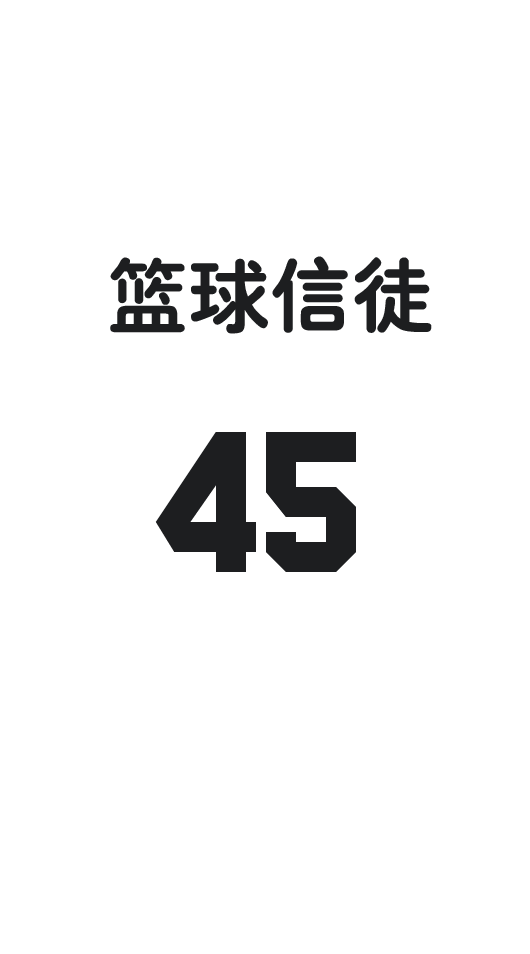
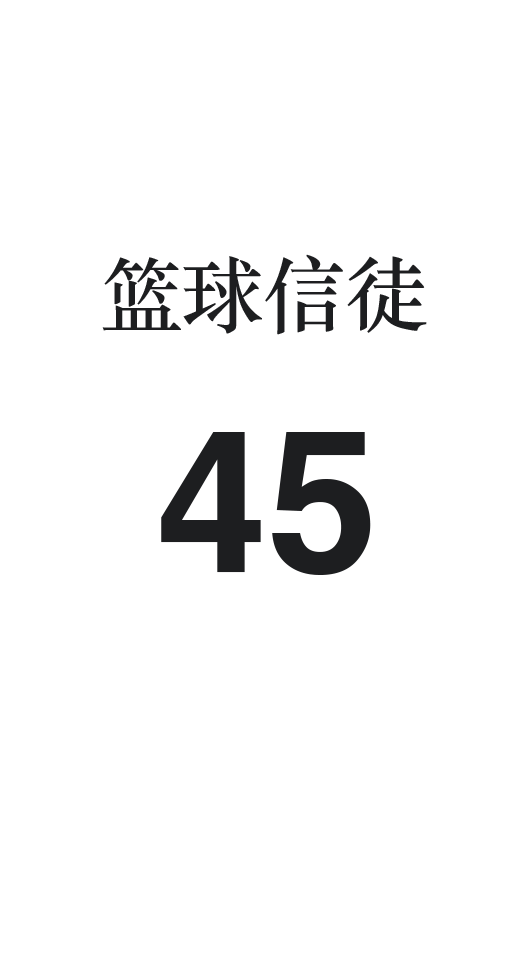
定制衣服

Changed region(s): [[0.2113, 0.2432, 0.8151, 0.3648], [0.4528, 0.456, 0.6943, 0.608], [0.3019, 0.456, 0.4226, 0.608]]

diff --git a/skin/frontend/default/spalding/js/customclothes.js b/skin/frontend/default/spalding/js/customclothes.js
@@ -385,14 +385,16 @@ function showCarlist(){
     jQuery(".madeBoxCont4 .list-item li.style span").text(fontStyle);
     getColor(mageAttr["color"],".madeBoxCont4 .list-item li.color span");
     jQuery(".madeBoxCont4 .list-item li.fontColor span").text(mageAttr["fontColor"]);
-    jQuery(".madeBoxCont4 .list-item li.team span").text(mageAttr["team"]);
-    var html = "";
+    jQuery(".madeBoxCont4 .list-item li.team span").text(mageAttr["team"]?mageAttr["team"]:"");
+    var html = "", player , num ;
     jQuery(".madeBoxCont4 .moreBox table tbody").html("");
     jQuery.each(detailData,function(key,node){
+        player=node.player?node.player:"";
+        num=node.num?node.num:"";
         if(mageAttr["double"] == 0){
-            html += "<tr><td>"+node.player+"</td><td>"+node.num+"</td><td>"+node.size+"</td></tr>";
+            html += "<tr><td>"+player+"</td><td>"+num+"</td><td>"+node.size+"</td></tr>";
         }else{
-            html += "<tr><td>"+node.player+"</td><td>"+node.num+"</td><td>"+node.size+"</td><td>"+node.size2+"</td></tr>";
+            html += "<tr><td>"+player+"</td><td>"+num+"</td><td>"+node.size+"</td><td>"+node.size2+"</td></tr>";
         }
     })
     jQuery(".madeBoxCont4 .moreBox table tbody").append(html);

diff --git a/skin/frontend/default/spalding/css/customclothes.css b/skin/frontend/default/spalding/css/customclothes.css
@@ -127,6 +127,7 @@ button{border:0;outline: none}
 .cusMadeBox .styleBox .madeFont .ullist li:after{width:150px;}
 .cusMadeBox .styleBox .madeFont .ullist li.style1{background: url(../images/shirtmade/img_font1.png) no-repeat}
 .cusMadeBox .styleBox .madeFont .ullist li.style2{background: url(../images/shirtmade/img_font2.png) no-repeat}
+.cusMadeBox .styleBox .madeFont .ullist li.style3{background: url(../images/shirtmade/img_font3.png) no-repeat}
 .cusMadeBox .styleBox .madeStyle .ullist li{width:146px;height:38px;}
 .cusMadeBox .styleBox .madeStyle .ullist li:after{width:150px;}
 .cusMadeBox .styleBox .madeStyle .ullist li.style1{background: url(../images/shirtmade/style1.png) no-repeat}

diff --git a/skin/frontend/default/spalding/js/custommade.js b/skin/frontend/default/spalding/js/custommade.js
@@ -216,7 +216,6 @@ function IsNum(obj) {
 * */
 function madeData(){
     var color=jQuery(".madeColor li.active").attr("data");
-    alert(color);
     var size=jQuery(".madeSize li.active").text();
     var font=jQuery(".madeFont li.active").attr("data");
     var style=jQuery(".madeStyle li.active").attr("data");
